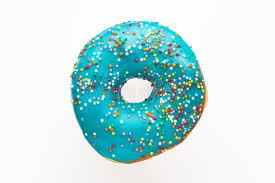
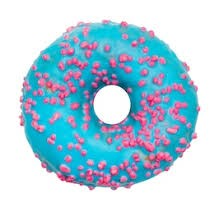
imagenes

diff --git a/views/index.html b/views/index.html
@@ -31,7 +31,7 @@
                         <img src="/img/dona-choco.jpg" class="product_img" alt="choco">
                     </div>
                     <div class="main-article">
-                        <img src="/img/dona-rosa.jpg" class="product_img" alt="rosa">
+                        <img src="/img/dona-verde.jpg" class="product_img" alt="verde">
                     </div>
                     <div class="main-article">
                         <img src="/img/dona-krispi.jpg" class="product_img" alt="krispi">
